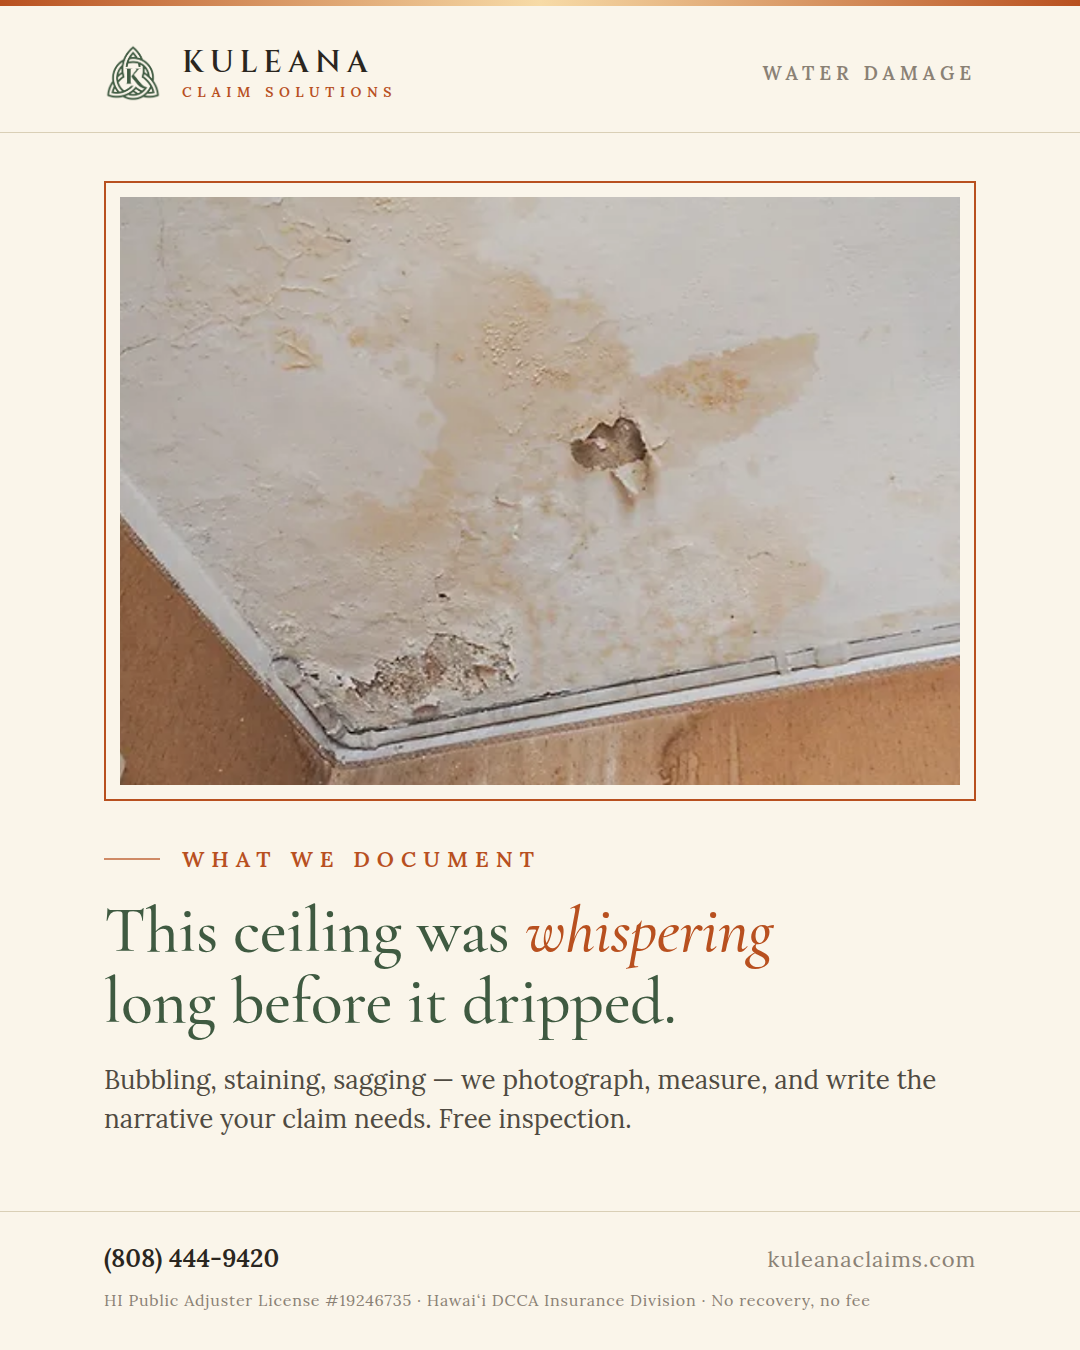
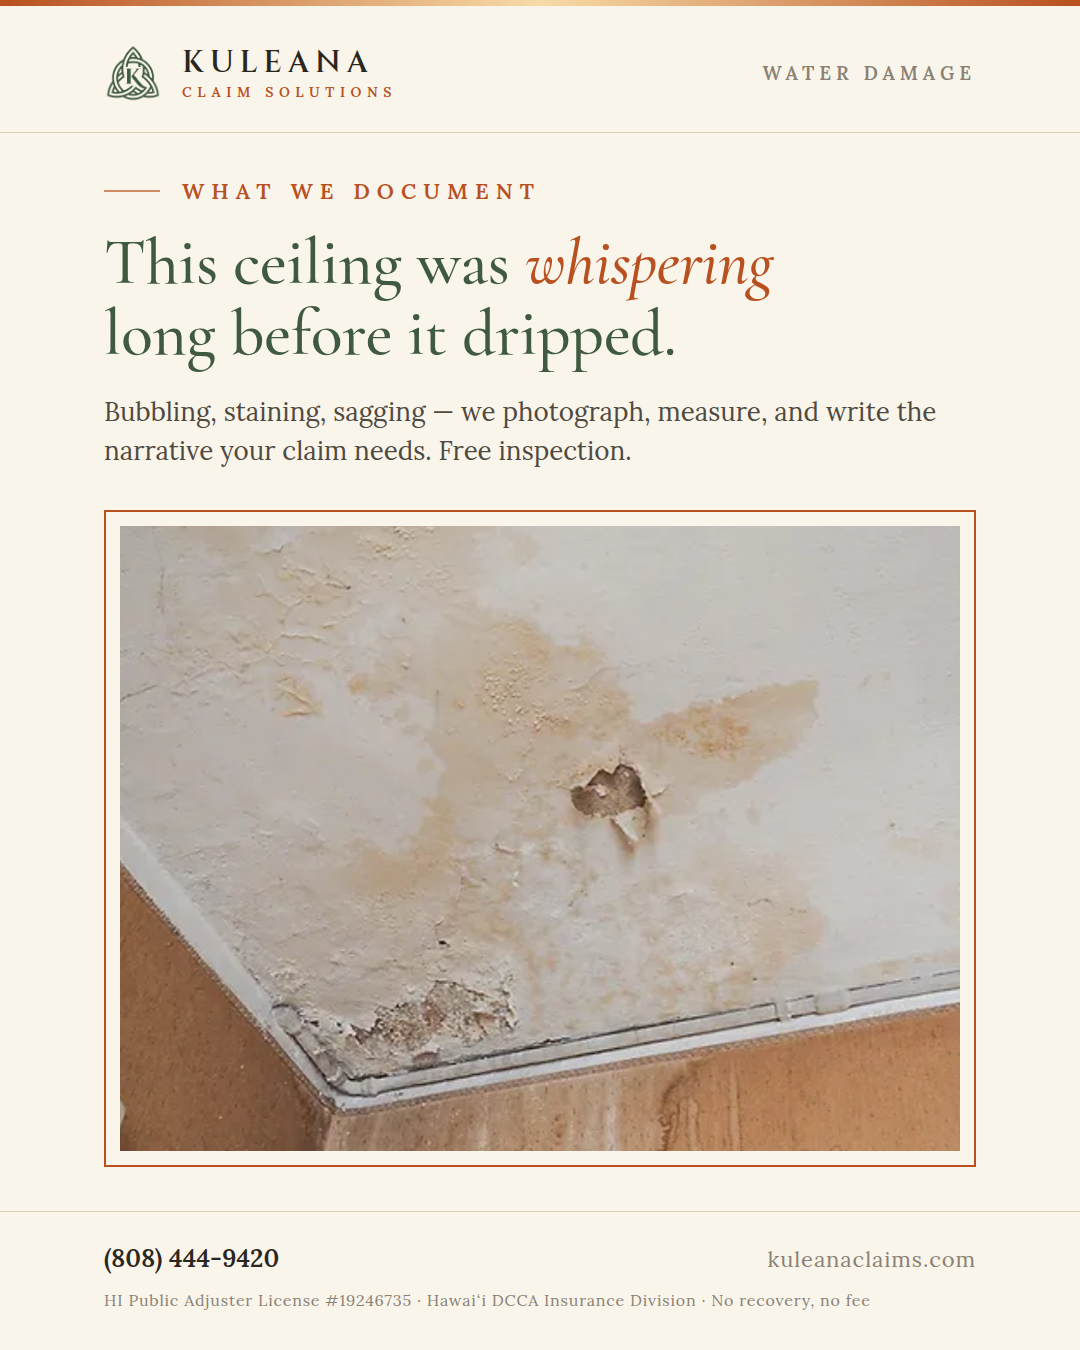
Rearrange photo posts: description above, photo below
All 14 photo tiles flipped to eyebrow/headline/body on top with the
framed photo filling the lower half; review sheets regenerated.

Claude-Session: https://claude.ai/code/session_012ermQFeXKetnBLvQfiukPr

diff --git a/instagram/kuleana-instagram-posts.html b/instagram/kuleana-instagram-posts.html
@@ -239,14 +239,14 @@ body { background: #E9E2D2; display: flex; flex-direction: column; align-items: 
 .swipe::after { content: "\2192"; font-size: 34px; letter-spacing: 0; }
 
 /* ================= PHOTO POSTS ================= */
-.photo-frame { flex: none; position: relative; margin: 48px 104px 0; height: 620px; border: 2px solid #B8501F; padding: 14px; background: #FAF5EA; }
+.photo-frame { flex: 1; min-height: 0; position: relative; margin: 40px 104px 44px; border: 2px solid #B8501F; padding: 14px; background: #FAF5EA; }
 .photo-frame img { width: 100%; height: 100%; object-fit: cover; display: block; }
 .photo-tag {
   position: absolute; right: 30px; bottom: 30px;
   font-family: 'Lora', Georgia, serif; font-weight: 600; font-size: 16px; letter-spacing: 0.18em; text-transform: uppercase;
   background: rgba(42,38,32,0.82); color: #FAF5EA; padding: 10px 18px;
 }
-.photo-body { flex: 1; display: flex; flex-direction: column; padding: 44px 104px 0; min-height: 0; }
+.photo-body { flex: none; display: flex; flex-direction: column; padding: 44px 104px 0; }
 .photo-body .display { font-size: 66px; margin-top: 22px; }
 .photo-body .body { font-size: 26px; margin-top: 22px; line-height: 1.5; }
 </style>
@@ -584,13 +584,13 @@ POST 11 · Photo post — ceiling water damage
     </div>
     <div class="head-right">Water Damage</div>
   </header>
-  <div class="photo-frame">
-    <img src="img/library-water-damage.png" alt="Water-damaged ceiling with staining and peeling paint" width="948" height="588" />
-  </div>
   <div class="photo-body">
     <div class="eyebrow">What We Document</div>
     <h1 class="display">This ceiling was <em>whispering</em> long before it dripped.</h1>
     <p class="body">Bubbling, staining, sagging &mdash; we photograph, measure, and write the narrative your claim needs. Free inspection.</p>
+  </div>
+  <div class="photo-frame">
+    <img src="img/library-water-damage.png" alt="Water-damaged ceiling with staining and peeling paint" width="948" height="588" />
   </div>
   <footer class="foot">
     <div class="foot-top">
@@ -613,13 +613,13 @@ POST 12 · Photo post — roof wind damage
     </div>
     <div class="head-right">Wind Damage</div>
   </header>
-  <div class="photo-frame">
-    <img src="img/damage-roof.png" alt="Wind-damaged asphalt shingle roof with creased and lifted shingles" width="948" height="588" />
-  </div>
   <div class="photo-body">
     <div class="eyebrow">After Every Storm</div>
     <h1 class="display">Wind damage rarely <em>announces</em> itself.</h1>
     <p class="body">Creased tabs and granule loss let the next rain straight in. A trained inspection catches it while it&rsquo;s still a claim &mdash; not a catastrophe.</p>
+  </div>
+  <div class="photo-frame">
+    <img src="img/damage-roof.png" alt="Wind-damaged asphalt shingle roof with creased and lifted shingles" width="948" height="588" />
   </div>
   <footer class="foot">
     <div class="foot-top">
@@ -642,13 +642,13 @@ POST 13 · Photo post — hidden mold
     </div>
     <div class="head-right">Hidden Damage</div>
   </header>
-  <div class="photo-frame">
-    <img src="img/damage-mold.png" alt="Opened kitchen wall revealing mold growth on studs" width="948" height="588" />
-  </div>
   <div class="photo-body">
     <div class="eyebrow">Behind the Wall</div>
     <h1 class="display">What you can&rsquo;t see can <em>still</em> cost you.</h1>
     <p class="body">A supply-line leak doesn&rsquo;t stay in one room. Musty smells, discoloration, bubbling paint &mdash; document it before it spreads.</p>
+  </div>
+  <div class="photo-frame">
+    <img src="img/damage-mold.png" alt="Opened kitchen wall revealing mold growth on studs" width="948" height="588" />
   </div>
   <footer class="foot">
     <div class="foot-top">
@@ -671,13 +671,13 @@ POST 14 · Photo post — after the storm
     </div>
     <div class="head-right">After the Storm</div>
   </header>
-  <div class="photo-frame">
-    <img src="img/damage-exterior.png" alt="Hawaii home exterior with storm debris and damaged gutter" width="948" height="588" />
-  </div>
   <div class="photo-body">
     <div class="eyebrow">First 48 Hours</div>
     <h1 class="display">Before you clean up, <em>document</em> everything.</h1>
     <p class="body">Photograph the debris, the damage, and every temporary repair receipt. Your future claim is built in the first 48 hours.</p>
+  </div>
+  <div class="photo-frame">
+    <img src="img/damage-exterior.png" alt="Hawaii home exterior with storm debris and damaged gutter" width="948" height="588" />
   </div>
   <footer class="foot">
     <div class="foot-top">
@@ -700,13 +700,13 @@ POST 15 · Photo post — kitchen fire
     </div>
     <div class="head-right">Fire &amp; Smoke</div>
   </header>
-  <div class="photo-frame">
-    <img src="img/damage-fire-kitchen.png" alt="Kitchen fire damage with charred cabinets and soot" width="948" height="588" />
-  </div>
   <div class="photo-body">
     <div class="eyebrow">Covered Peril &middot; Fire</div>
     <h1 class="display">Fire is fast. <em>Smoke</em> is thorough.</h1>
     <p class="body">The flames stopped at the kitchen. The smoke didn&rsquo;t. We document both &mdash; structure, contents, odor, and the residue carriers overlook.</p>
+  </div>
+  <div class="photo-frame">
+    <img src="img/damage-fire-kitchen.png" alt="Kitchen fire damage with charred cabinets and soot" width="948" height="588" />
   </div>
   <footer class="foot">
     <div class="foot-top">
@@ -729,13 +729,13 @@ POST 16 · Photo post — burst supply line
     </div>
     <div class="head-right">Sudden Discharge</div>
   </header>
-  <div class="photo-frame">
-    <img src="img/damage-pipe-bathroom.png" alt="Burst supply line under bathroom vanity with pooling water" width="948" height="588" />
-  </div>
   <div class="photo-body">
     <div class="eyebrow">Covered Peril &middot; Water</div>
     <h1 class="display">One cracked hose. <em>Five rooms</em> of damage.</h1>
     <p class="body">Sudden water discharge is one of the most common covered claims &mdash; and one of the most underpaid. Shut the water off, then document everything.</p>
+  </div>
+  <div class="photo-frame">
+    <img src="img/damage-pipe-bathroom.png" alt="Burst supply line under bathroom vanity with pooling water" width="948" height="588" />
   </div>
   <footer class="foot">
     <div class="foot-top">
@@ -758,13 +758,13 @@ POST 17 · Photo post — lanai hurricane damage
     </div>
     <div class="head-right">Hurricane Season</div>
   </header>
-  <div class="photo-frame">
-    <img src="img/damage-lanai.png" alt="Hurricane wind damage to a lanai with shattered sliding door" width="948" height="588" />
-  </div>
   <div class="photo-body">
     <div class="eyebrow">Wind vs. Hurricane</div>
     <h1 class="display">Wind or hurricane? Your <em>deductible</em> knows the difference.</h1>
     <p class="body">Hawai&#699;i policies often carry a separate hurricane deductible. Which one applies can change your recovery by thousands. We read the policy first.</p>
+  </div>
+  <div class="photo-frame">
+    <img src="img/damage-lanai.png" alt="Hurricane wind damage to a lanai with shattered sliding door" width="948" height="588" />
   </div>
   <footer class="foot">
     <div class="foot-top">
@@ -787,13 +787,13 @@ POST 18 · Photo post — smoke damage living room
     </div>
     <div class="head-right">Smoke Damage</div>
   </header>
-  <div class="photo-frame">
-    <img src="img/damage-smoke-living.png" alt="Living room coated in soot film after a nearby fire" width="948" height="588" />
-  </div>
   <div class="photo-body">
     <div class="eyebrow">The Invisible Loss</div>
     <h1 class="display">The fire was next door. The <em>damage</em> is yours.</h1>
     <p class="body">Soot film, odor, corrosive residue &mdash; smoke claims are real claims, even when flames never touched your home. Don&rsquo;t let it be waved off as &ldquo;just cleaning.&rdquo;</p>
+  </div>
+  <div class="photo-frame">
+    <img src="img/damage-smoke-living.png" alt="Living room coated in soot film after a nearby fire" width="948" height="588" />
   </div>
   <footer class="foot">
     <div class="foot-top">
@@ -816,13 +816,13 @@ POST 19 · Photo post — solar panel storm damage
     </div>
     <div class="head-right">Storm Damage</div>
   </header>
-  <div class="photo-frame">
-    <img src="img/damage-solar.png" alt="Storm-damaged rooftop solar panels with cracked cells" width="948" height="588" />
-  </div>
   <div class="photo-body">
     <div class="eyebrow">Don&rsquo;t Forget the Panels</div>
     <h1 class="display">Your roof isn&rsquo;t the <em>only thing</em> up there.</h1>
     <p class="body">Cracked cells and lifted racking are storm damage too. Panels, mounts, wiring, and lost production all belong in your claim.</p>
+  </div>
+  <div class="photo-frame">
+    <img src="img/damage-solar.png" alt="Storm-damaged rooftop solar panels with cracked cells" width="948" height="588" />
   </div>
   <footer class="foot">
     <div class="foot-top">
@@ -845,13 +845,13 @@ POST 20 · Photo post — storm water intrusion
     </div>
     <div class="head-right">Water Intrusion</div>
   </header>
-  <div class="photo-frame">
-    <img src="img/damage-rain-window.png" alt="Rain water streaming through a window frame onto wood flooring" width="948" height="588" />
-  </div>
   <div class="photo-body">
     <div class="eyebrow">During the Storm</div>
     <h1 class="display">If it&rsquo;s coming in, <em>start recording.</em></h1>
     <p class="body">Video during the storm is evidence gold: where it entered, how fast, what it touched. Then call us &mdash; before the carrier&rsquo;s adjuster visits.</p>
+  </div>
+  <div class="photo-frame">
+    <img src="img/damage-rain-window.png" alt="Rain water streaming through a window frame onto wood flooring" width="948" height="588" />
   </div>
   <footer class="foot">
     <div class="foot-top">
@@ -874,13 +874,13 @@ POST 21 · Photo post — hail (from Caren's library)
     </div>
     <div class="head-right">Hail &amp; Impact</div>
   </header>
-  <div class="photo-frame">
-    <img src="img/library-hail.png" alt="Hand holding hailstones after a hailstorm" width="948" height="588" />
-  </div>
   <div class="photo-body">
     <div class="eyebrow">After the Hailstorm</div>
     <h1 class="display">Hail doesn&rsquo;t just dent metal. It <em>bruises</em> roofs.</h1>
     <p class="body">Even when nothing looks wrong from the ground, impact bruising shortens your roof&rsquo;s life. If hail hit your neighborhood, get it inspected before the next rain.</p>
+  </div>
+  <div class="photo-frame">
+    <img src="img/library-hail.png" alt="Hand holding hailstones after a hailstorm" width="948" height="588" />
   </div>
   <footer class="foot">
     <div class="foot-top">
@@ -903,13 +903,13 @@ POST 22 · Photo post — real inspection (Caren's photo)
     </div>
     <div class="head-right">How We Work</div>
   </header>
-  <div class="photo-frame" style="height: 680px;">
-    <img src="img/library-inspection-caren.png" alt="Kuleana adjuster walking a homeowner through an under-sink inspection" width="948" height="648" style="object-position: 50% 30%;" />
-  </div>
   <div class="photo-body">
     <div class="eyebrow">Inside a Free Inspection</div>
     <h1 class="display" style="font-size: 62px;">We look where leaks start &mdash; <em>with</em> you, not for you.</h1>
     <p class="body" style="font-size: 25px;">Supply lines, traps, valves, the spots carriers skip. You walk every step with us, and the documentation is yours to keep.</p>
+  </div>
+  <div class="photo-frame">
+    <img src="img/library-inspection-caren.png" alt="Kuleana adjuster walking a homeowner through an under-sink inspection" width="948" height="648" style="object-position: 50% 30%;" />
   </div>
   <footer class="foot">
     <div class="foot-top">
@@ -932,13 +932,13 @@ POST 23 · Photo post — meet your advocate (brand portrait)
     </div>
     <div class="head-right">The Founder</div>
   </header>
-  <div class="photo-frame" style="height: 680px;">
-    <img src="img/library-founder-desk-2k.png" alt="Caren Almuina at the Kuleana Claim Solutions office" width="948" height="648" style="object-position: 50% 22%;" />
-  </div>
   <div class="photo-body">
     <div class="eyebrow">Meet Your Advocate</div>
     <h1 class="display" style="font-size: 62px;">Aloha &mdash; I&rsquo;m Caren. <em>Your</em> adjuster, not theirs.</h1>
     <p class="body" style="font-size: 25px;">Licensed public adjuster, regulated by the same DCCA that oversees your carrier. When you call Kuleana, you get me &mdash; not a call center.</p>
+  </div>
+  <div class="photo-frame">
+    <img src="img/library-founder-desk-2k.png" alt="Caren Almuina at the Kuleana Claim Solutions office" width="948" height="648" style="object-position: 50% 22%;" />
   </div>
   <footer class="foot">
     <div class="foot-top">
@@ -961,13 +961,13 @@ POST 24 · Photo post — on-site after the storm (brand portrait)
     </div>
     <div class="head-right">On Site</div>
   </header>
-  <div class="photo-frame" style="height: 680px;">
-    <img src="img/library-founder-site.jpg" alt="Caren Almuina on site at a storm-damaged Hawaii home" width="948" height="648" style="object-position: 50% 26%;" />
-  </div>
   <div class="photo-body">
     <div class="eyebrow">After the Storm</div>
     <h1 class="display" style="font-size: 62px;">We don&rsquo;t assess your loss <em>from a desk.</em></h1>
     <p class="body" style="font-size: 25px;">Every claim starts where the damage is. Site inspection, photos, moisture readings &mdash; documented on your property, with you beside us.</p>
+  </div>
+  <div class="photo-frame">
+    <img src="img/library-founder-site.jpg" alt="Caren Almuina on site at a storm-damaged Hawaii home" width="948" height="648" style="object-position: 50% 26%;" />
   </div>
   <footer class="foot">
     <div class="foot-top">
